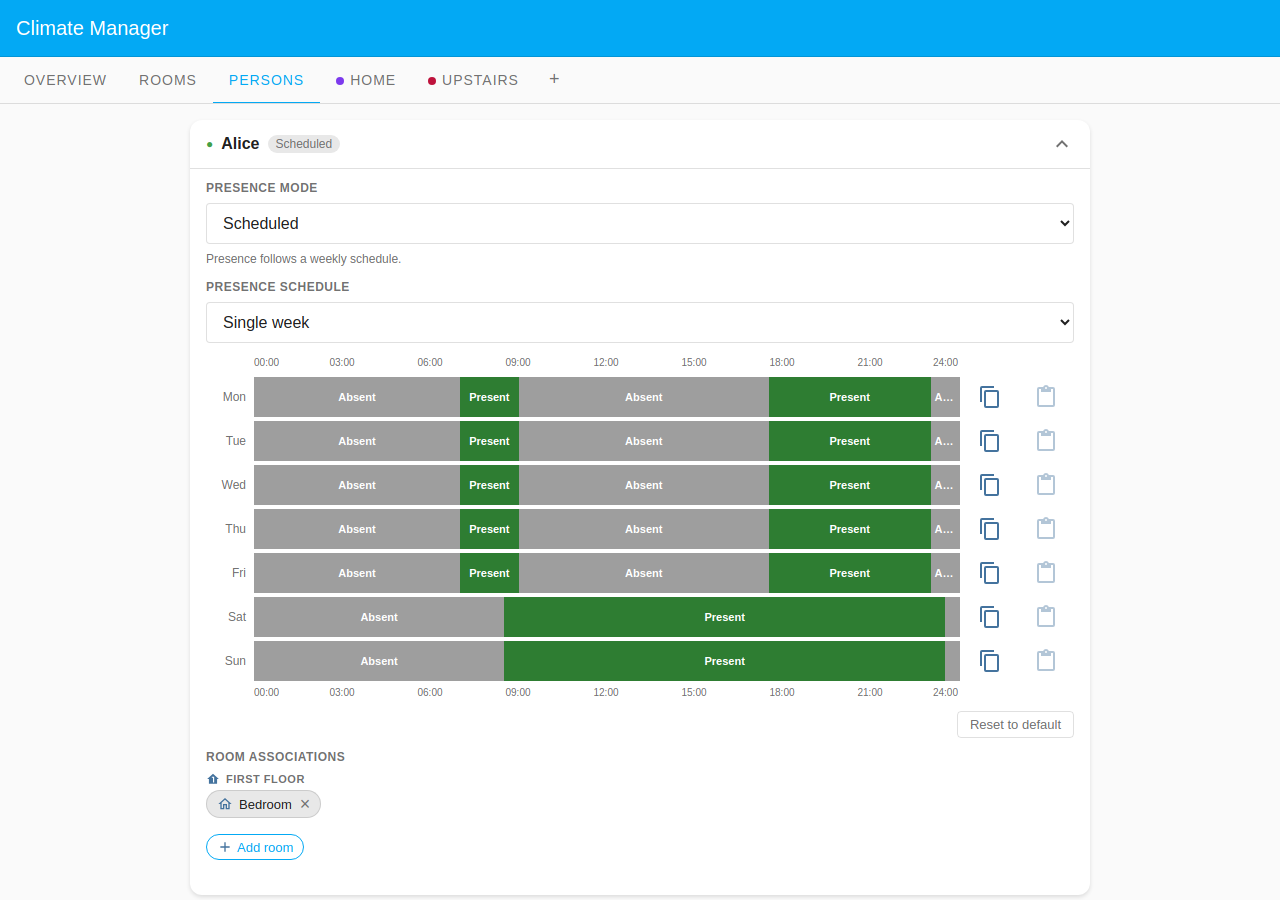
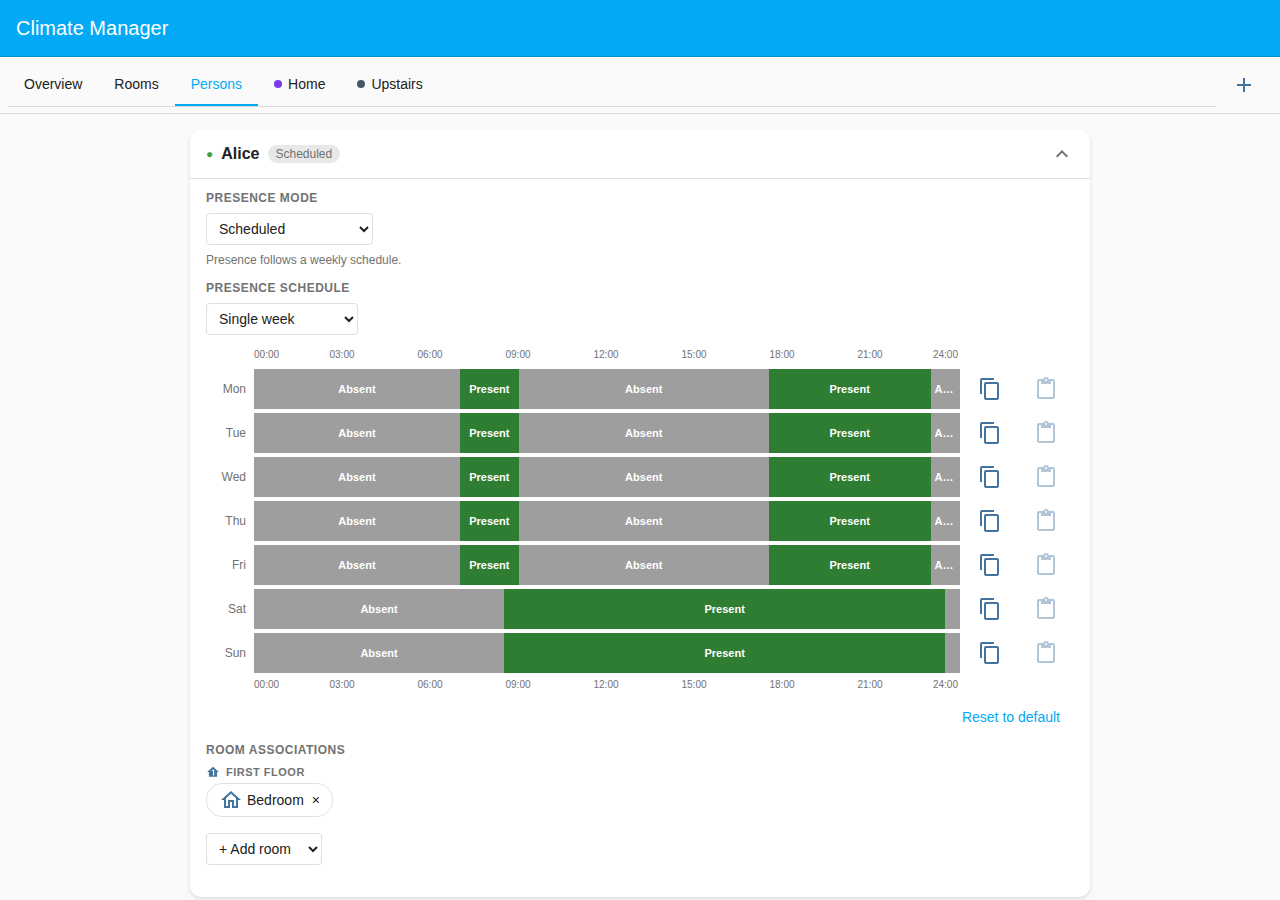
docs: HA components in the panel; refresh screenshots
The architecture frontend section lists the HA component used for each
control, the startup loader and the harness stubs, drops the obsolete
"broken in HA 2026.x" notes, toast.ts and search-picker.ts, and names
main.ts as the root element.

diff --git a/frontend/src/presence-periods.ts b/frontend/src/presence-periods.ts
@@ -32,7 +32,7 @@ export function hasPresenceZone(config: ClimateConfig | undefined): boolean {
   return zones.some((zone) => zone?.mode === "time_program_presences");
 }
 
-/** A Date as a local "YYYY-MM-DDTHH:MM" string (datetime-local value). */
+/** A Date as a local "YYYY-MM-DDTHH:MM" string (the editor's value). */
 export function toLocalInput(date: Date): string {
   const pad = (n: number) => String(n).padStart(2, "0");
   return (

diff --git a/docs/architecture.md b/docs/architecture.md
@@ -666,12 +666,13 @@ Lit is bundled into `panel.js` — no dependency on HA's own Lit instance.
 
 | File/component                                 | Role                                                                                                   |
 | ---------------------------------------------- | ------------------------------------------------------------------------------------------------------ |
-| `panel.ts`                                     | Root `<climate-manager-panel>` element; receives `hass` from HA; owns tab routing                      |
+| `main.ts`                                      | Root `<climate-manager-panel>` element; receives `hass` from HA; owns tab routing and toasts           |
 | `ws-client.ts`                                 | Typed WS helpers (thin wrappers over `hass.connection`)                                                |
 | `types.ts`                                     | TypeScript interfaces for all WS message shapes (`ClimateConfig`, `StatusPayload`, `RoomStatus`, etc.) |
-| `toast.ts`                                     | Global toast notification utility                                                                      |
+| `ha-elements.ts`                               | Loads HA's lazy elements once at startup; reports the missing ones                                     |
+| `ha-controls.ts`                               | HA controls as template helpers: select / entity / number selectors, add pickers, chips, buttons       |
 | `ha-nav.ts`                                    | HA more-info / in-app navigation / History URL / history-graph card helpers                            |
-| `shared-styles.ts`                             | Shared CSS design tokens                                                                               |
+| `shared-styles.ts`                             | Shared CSS fragments (layout of chips, hints, section labels)                                          |
 | `components/rooms-tab.ts` + `room-card.ts`     | Per-room config and schedule editor                                                                    |
 | `components/zone-tab.ts`                       | Zone management (create/rename/delete/mode/schedule)                                                   |
 | `components/persons-tab.ts` + `person-card.ts` | Person presence config and schedule editor                                                             |
@@ -681,11 +682,46 @@ Lit is bundled into `panel.js` — no dependency on HA's own Lit instance.
 | `components/time-bar.ts`                       | Interactive weekly schedule bar (drag to resize periods)                                               |
 | `components/week-parity.ts`                    | Even/odd week selector for biweekly schedules                                                          |
 
-HA native elements broken in HA 2026.x:
+### HA components
 
-- `ha-select` — use native `<select>` instead
-- `ha-tabs` / `paper-tab` — use CSS button tabs + manual panel header
-- `ha-textfield` — use native `<input type="number">` with label + suffix span
+Whenever HA ships a component for a control, the panel uses it, with a single
+code path (no native fallback), so the panel follows the user's profile
+(language, number, date and time formats) and theme:
+
+| Control                    | HA component                                                         |
+| -------------------------- | -------------------------------------------------------------------- |
+| Panel tabs, even/odd weeks | `ha-tab-group` + `ha-tab-group-tab`                                  |
+| Dropdowns, entity choice   | `ha-selector` (`select` dropdown, `entity`)                          |
+| Numbers                    | `ha-selector` `number` box, committed on blur / Enter                |
+| Toggles                    | `ha-switch`                                                          |
+| Dates and times            | `ha-date-input`, `ha-time-input`                                     |
+| Text (zone rename)         | `ha-input`                                                           |
+| Add a room / a person      | `ha-area-picker`, `ha-entity-picker` (add button)                    |
+| Rooms, persons, TRV chips  | `ha-input-chip`, `ha-filter-chip`, `ha-assist-chip` in `ha-chip-set` |
+| Buttons                    | `ha-button`, `ha-icon-button`                                        |
+| Save feedback              | HA's toast (`hass-notification` event)                               |
+| Notices                    | `ha-alert`                                                           |
+
+Most of these are lazy-loaded by HA. `ha-elements.ts` loads them once, before
+the panel renders its tabs. The card helpers (`window.loadCardHelpers`) come
+with the Lovelace panel module: when the panel is opened directly, before any
+dashboard, the loader loads that module through HA's panel router (the
+`partial-panel-resolver` ancestor's `lovelace` route), which also lets the room
+cards embed history graphs. It then opens the button card editor (`ha-form` /
+`ha-selector`) and the vertical-stack card editor (`ha-tab-group`), and mounts
+hidden `ha-selector`s of each type used, inside the panel (the date and time
+inputs read the locale from a context `<home-assistant>` provides), which import
+the inputs, pickers, chips, switch and buttons. HA fetches each module on
+demand, so the panel waits up to 20 s; tags still missing are logged
+(`console.error`) and listed in an `ha-alert` above the tabs, which drops each
+one as soon as it gets defined (the elements upgrade in place).
+
+Kept custom (no HA equivalent): the time-bar grid and its popup container, the
+status badges.
+
+The docs screenshot harness (`docs/test-harness.html`) defines stubs of these
+elements (`docs/ha-stubs.js`) rendering native equivalents and firing the same
+events, so the loader finds them all defined.
 
 ---
 
